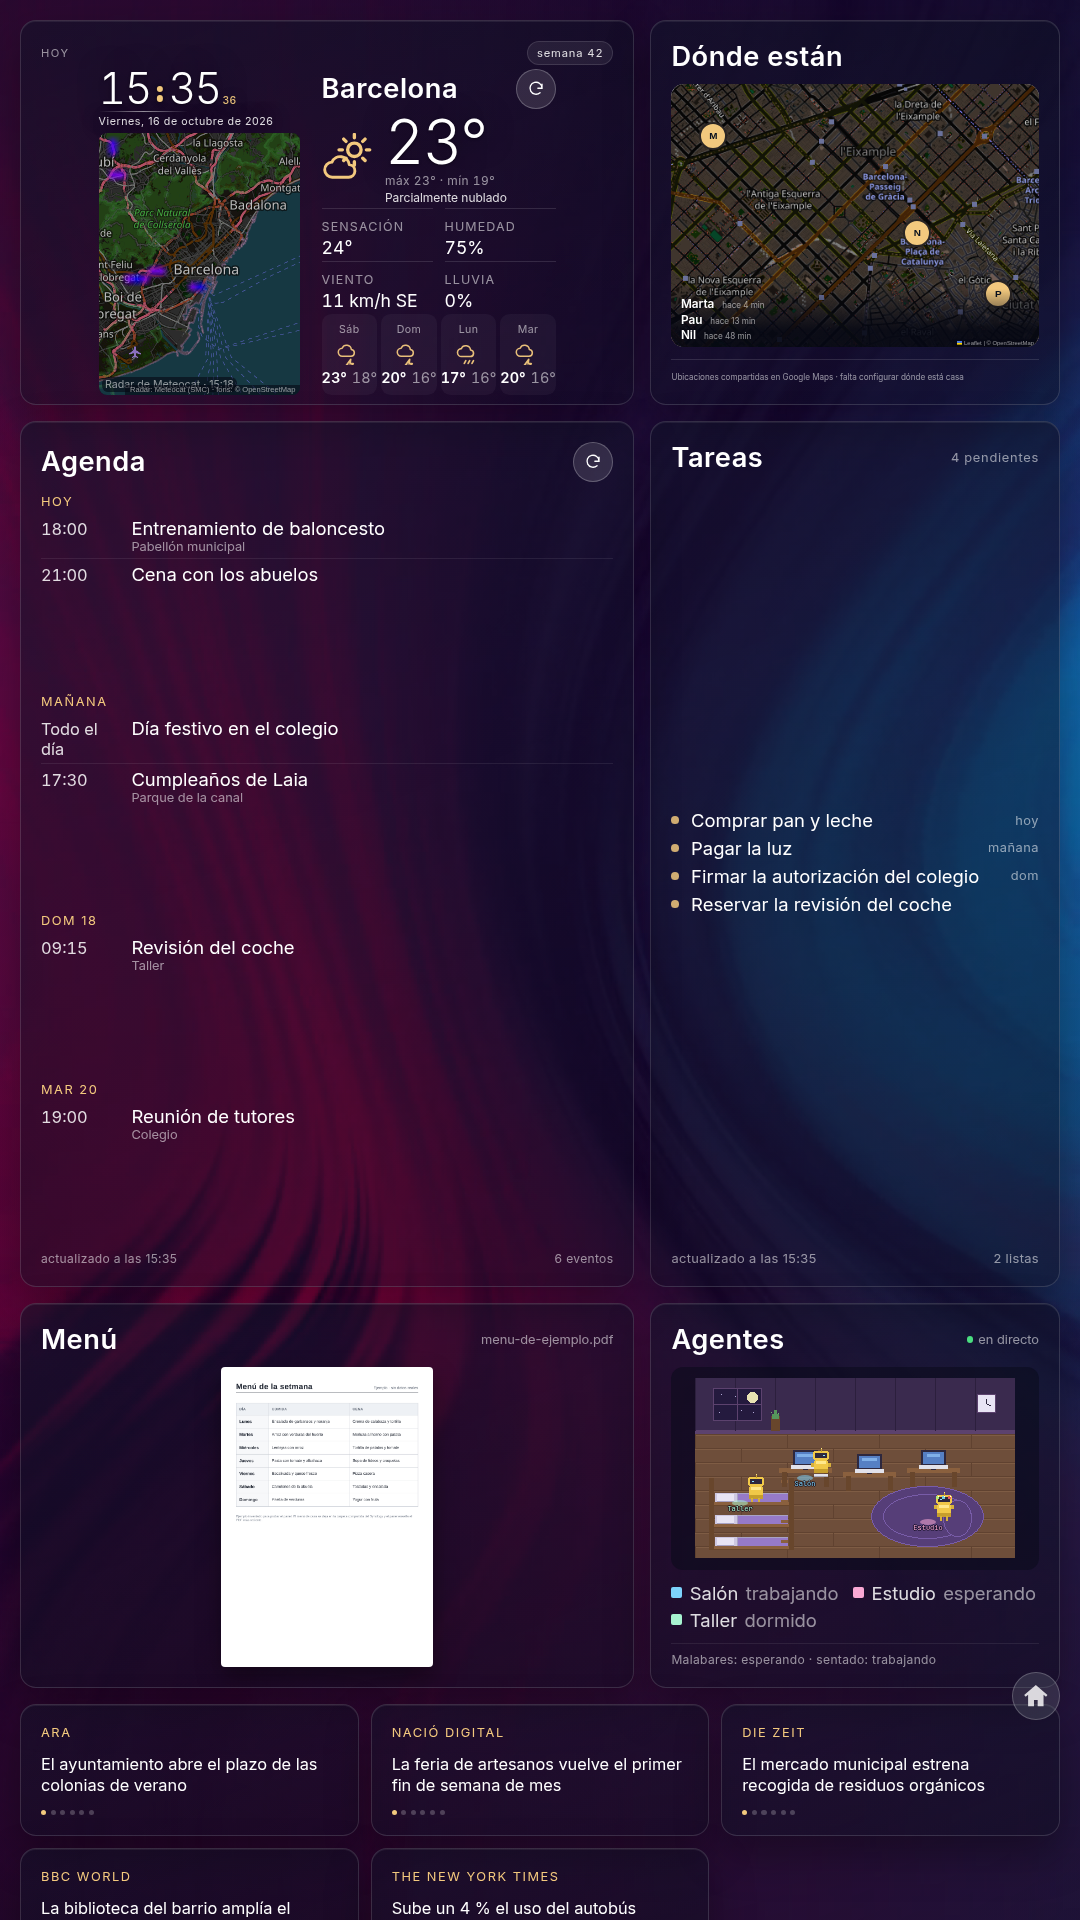
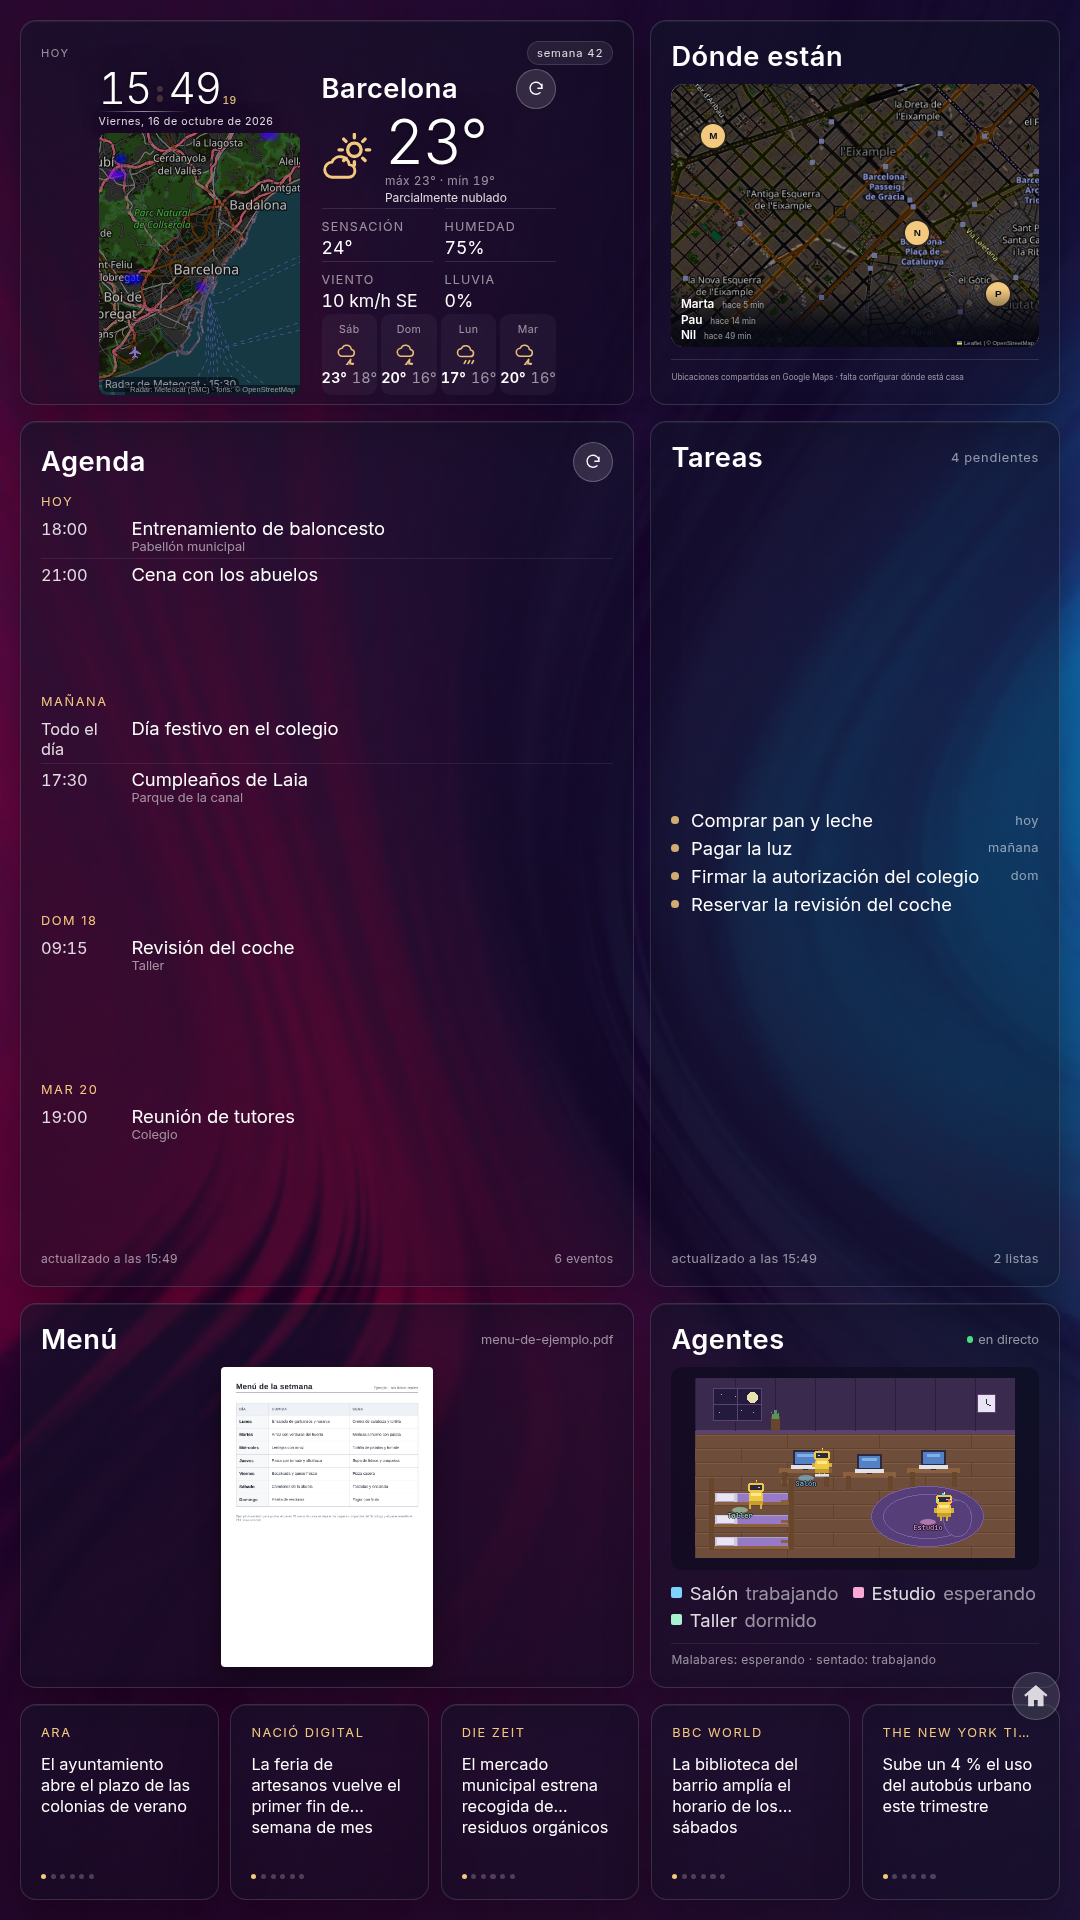
las noticias, en una sola fila: el margen de abajo vuelve a cuadrar
Con cuatro fuentes y dos columnas, las tarjetas se repartian en dos filas dentro de una franja con alto para una, y la de abajo se salia por debajo del margen (medido: el borde de abajo a -39 px, con 20 arriba). Ahora va una columna por fuente, siempre: las tarjetas quedan en una fila y el margen de abajo es el de arriba (20 px). Las tarjetas quedan mas estrechas (251 px con cuatro fuentes) y el titular cabe igual. Capturas rehechas con los datos de ejemplo.

diff --git a/src/components/NewsStrip.tsx b/src/components/NewsStrip.tsx
@@ -11,9 +11,11 @@ export function NewsStrip({ state }: { state: NewsState }) {
   const feeds = state.data?.feeds ?? []
   if (feeds.length === 0) return null
 
-  // Con dos fuentes o menos, una columna; con tres o cuatro, dos; con más, tres.
-  // (La franja es alta otra vez, así que dos columnas de titulares grandes.)
-  const columns = feeds.length <= 2 ? feeds.length : feeds.length <= 4 ? 2 : 3
+  // Una columna por fuente, siempre: es la única forma de que las tarjetas queden en
+  // UNA fila. Con dos columnas y cuatro fuentes salen dos filas de tarjetas dentro de
+  // una franja que solo tiene alto para una, y la de abajo se sale por debajo del
+  // margen de la pantalla (medido: el borde de abajo quedaba a -39 px en vez de a 20).
+  const columns = feeds.length
 
   return (
     <ul
